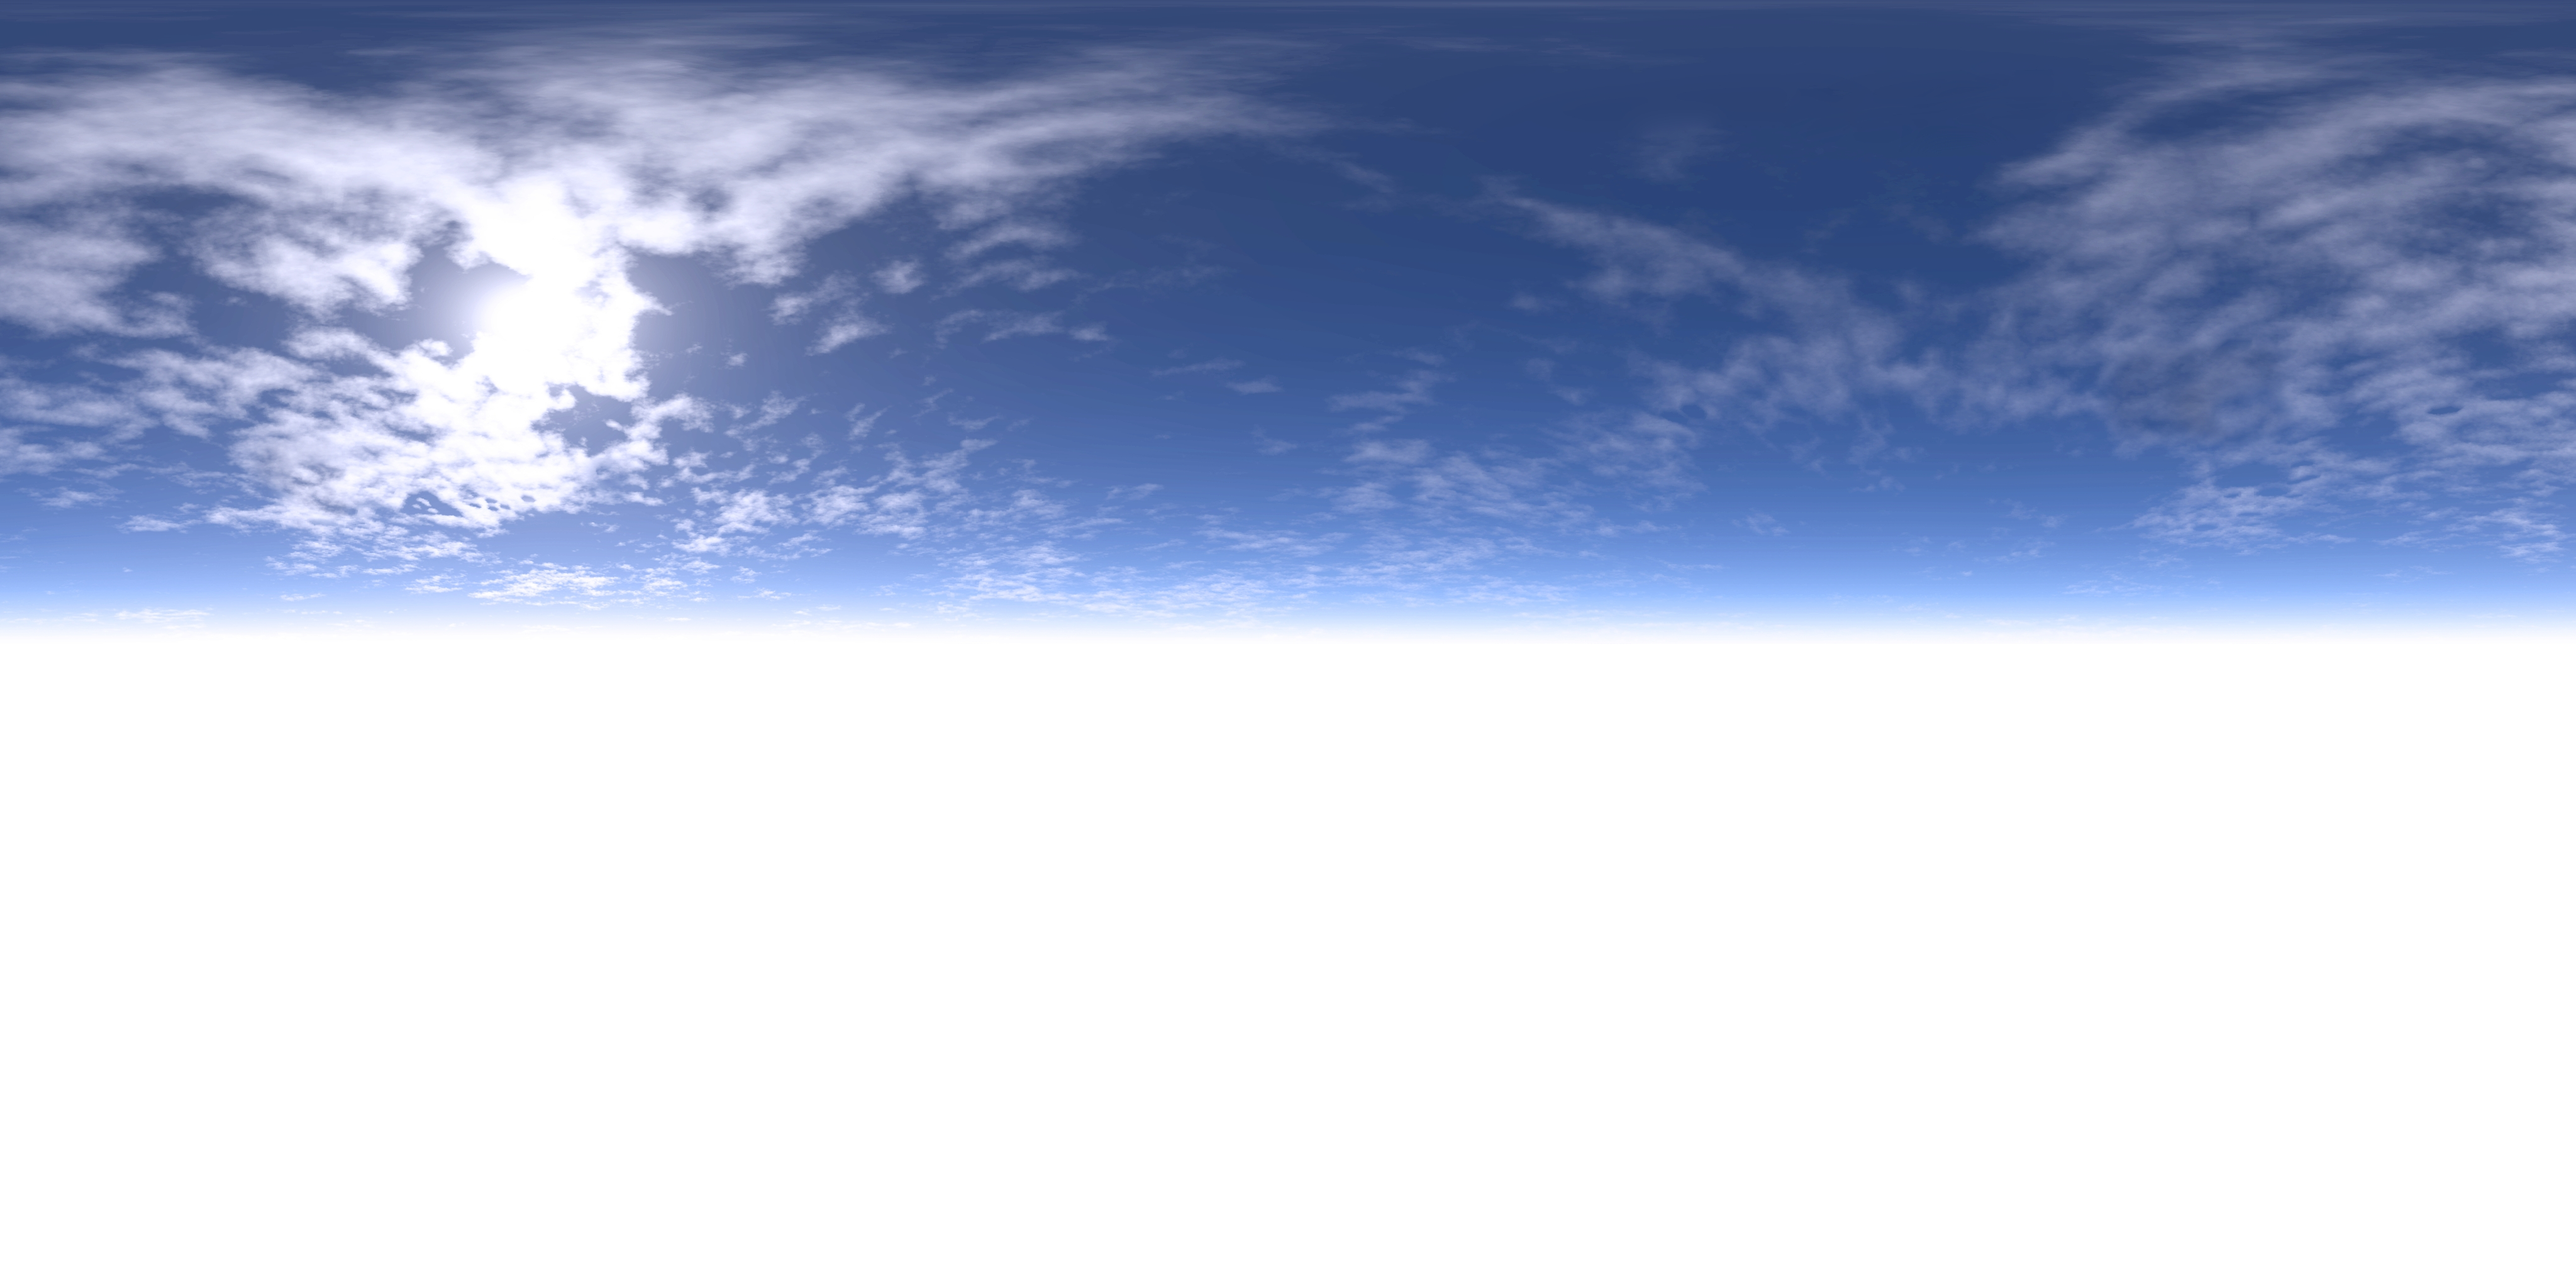
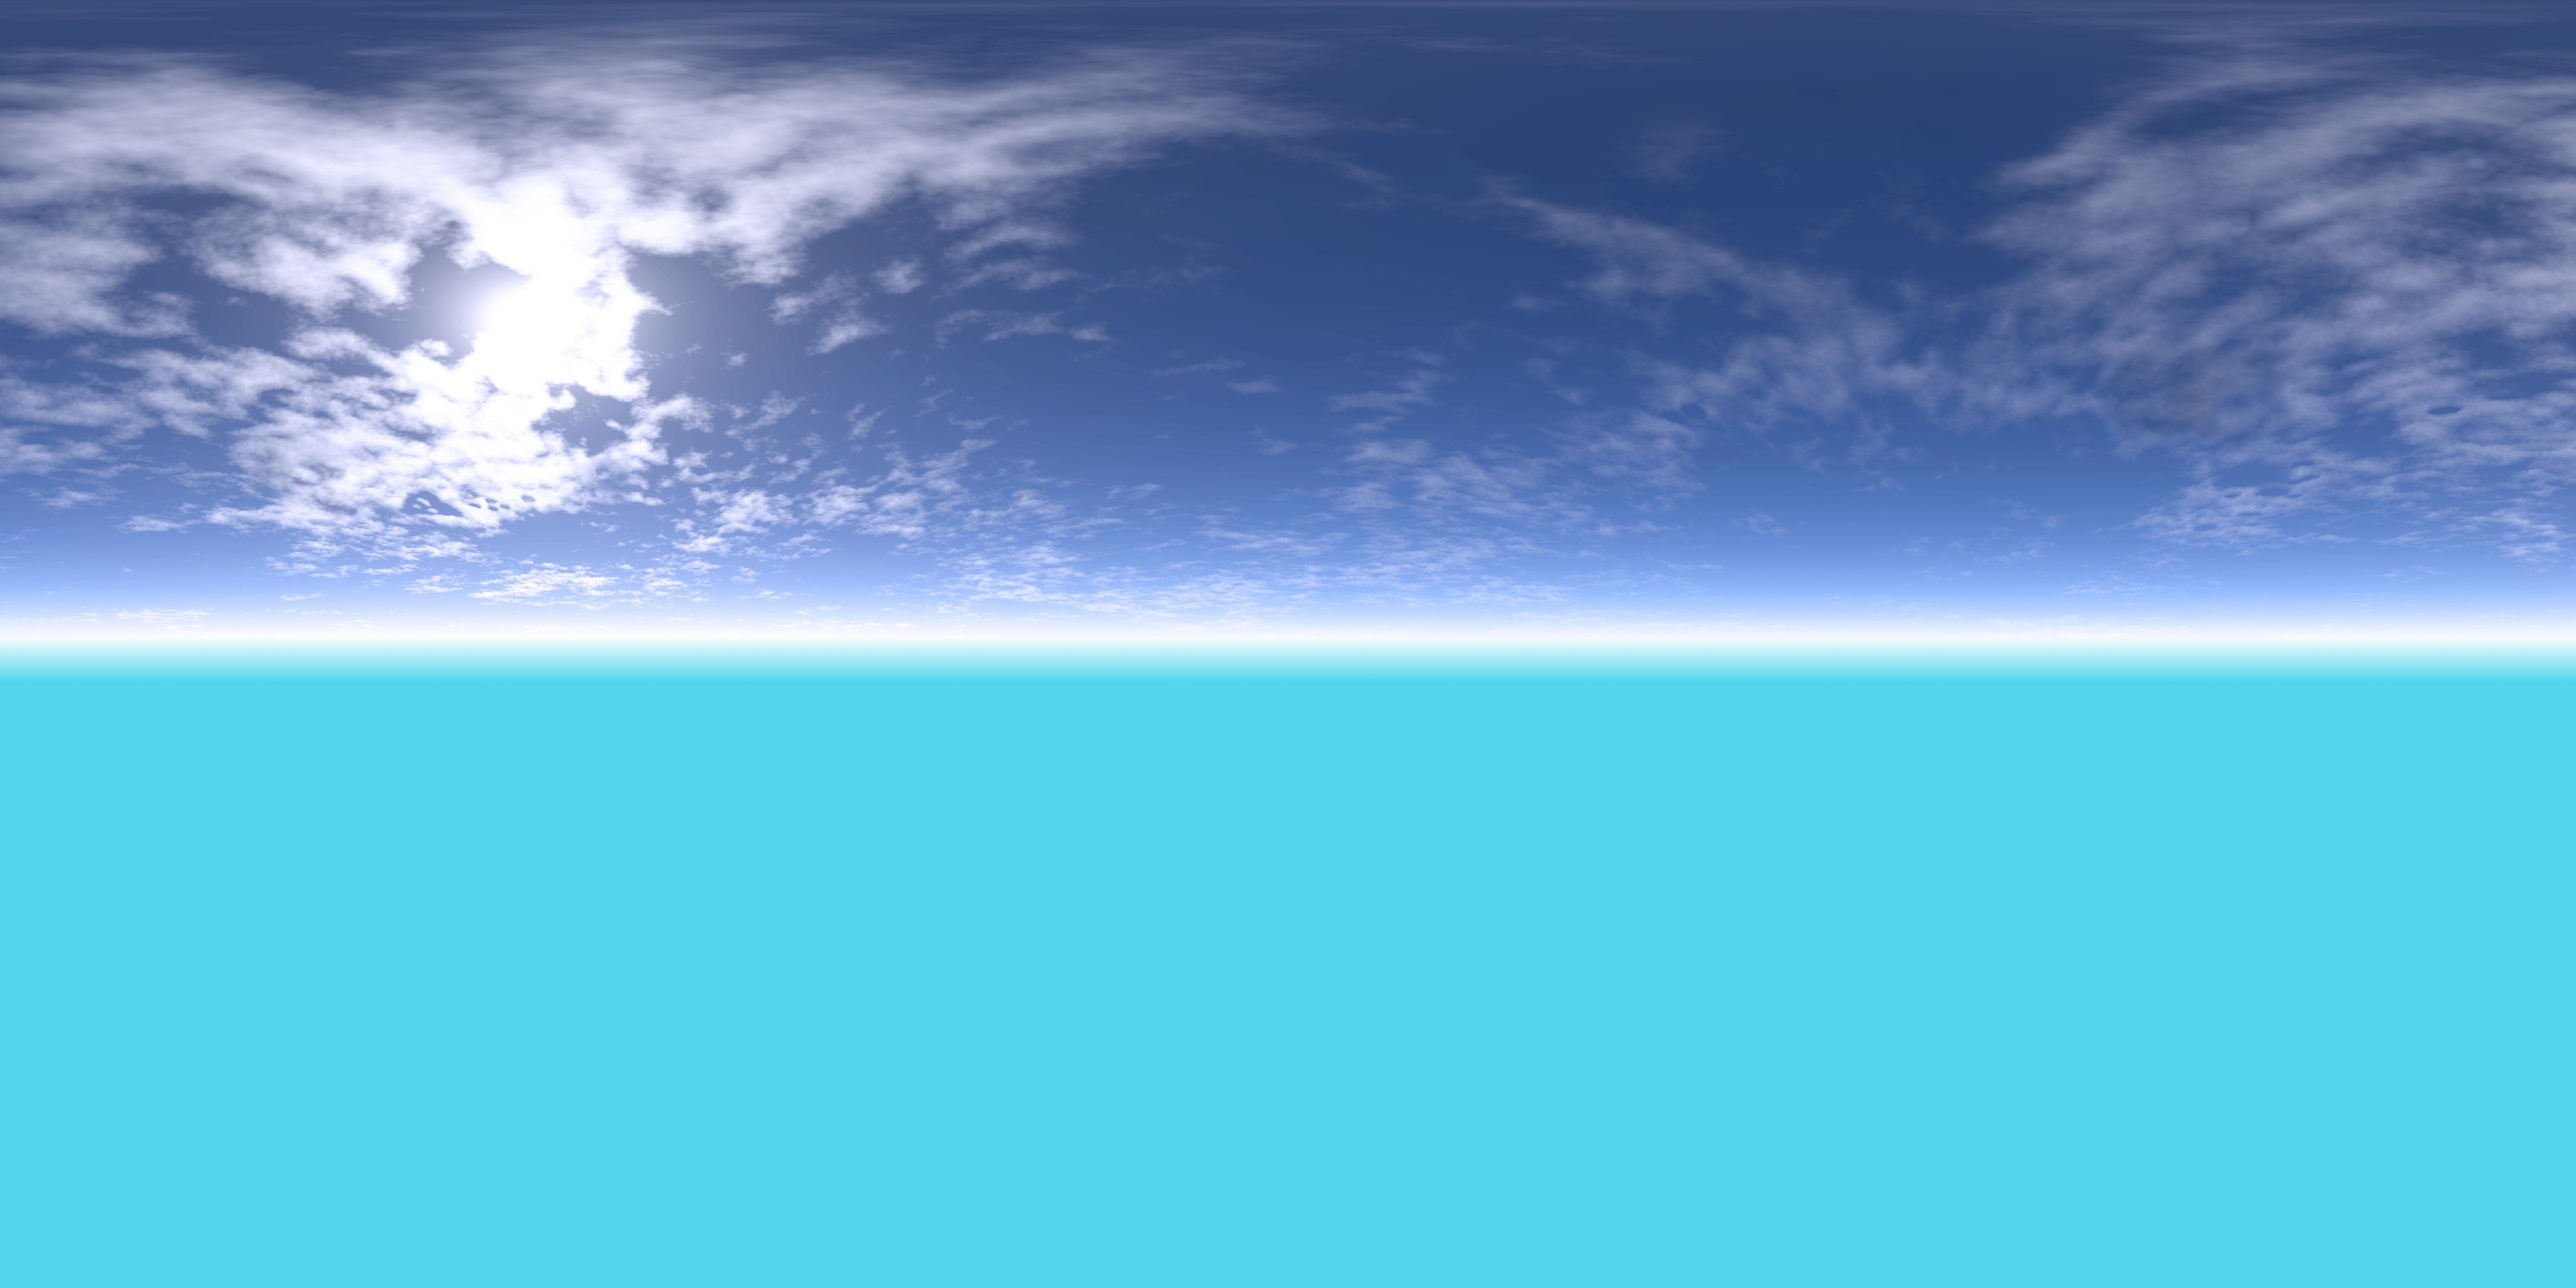
skybox repair, misc changes

diff --git a/src/main.cpp b/src/main.cpp
@@ -821,7 +821,7 @@ public:
     
 		for (i = worldentities.begin(); i != worldentities.end(); i++) {
 			shared_ptr<Entity> entity = i->second;
-			if (entity != worldentities["skybox"]) {
+			if (entity.get() != worldentities["skybox"].get()) {
 				glUniformMatrix4fv(DepthProg->getUniform("M"), 1, GL_FALSE, value_ptr(entity->modelMatrix));
 		
 				entity->model->Draw(DepthProg);
@@ -926,9 +926,15 @@ public:
 			}
 
 			if (shaders["skybox"] == curS) {
-				entity->position = activeCam->cameraPos;
+				glDisable(GL_CULL_FACE);
+				entity->position = player->position;
 				// skybox is always the furthest surface away
 				glDepthFunc(GL_LEQUAL);
+			}
+			else {	
+				glUniform3f(curS->prog->getUniform("lightDir"), light_vec.x, light_vec.y, light_vec.z);
+				glUniform1i(curS->prog->getUniform("shadowDepth"), 1);
+				glUniformMatrix4fv(curS->prog->getUniform("LS"), 1, GL_FALSE, value_ptr(LSpace));
 			}
 
 			if (entity->collider) {
@@ -937,30 +943,25 @@ public:
 						collidables.erase(collidables.begin() + i);
 					}
 				}
-				if (entity->id == player->id) {
-					entity->updateMotion(deltaTime, hmap, collidables, collisionSounds);
-				}
 				if (entity->collider->collectible){
 					entity->updateBoids(deltaTime, hmap, boids, player);
 					// cout << "BOIDED: " << entity->collider->boided << endl;
 				}
 			}
 	
-			glUniform3f(curS->prog->getUniform("lightDir"), light_vec.x, light_vec.y, light_vec.z);
-			glUniform1i(curS->prog->getUniform("shadowDepth"), 1);
-			glUniformMatrix4fv(curS->prog->getUniform("LS"), 1, GL_FALSE, value_ptr(LSpace));
 			glUniformMatrix4fv(curS->prog->getUniform("M"), 1, GL_FALSE, value_ptr(entity->modelMatrix));
 
 			//cout << i->first << endl;
 			for (auto& meshPair : entity->model->meshes) {
 				if (curS == shaders["reg"] || curS == shaders["platform"]) {
 					curS->setMaterial(meshPair.second.mat);
-				}			
+				}
 				meshPair.second.Draw(curS->prog);
 			}
 			
 			if (shaders["skybox"] == curS) {
 				// deactivate skybox backfill
+				glEnable(GL_CULL_FACE);
 				glDepthFunc(GL_LESS);
 			}
 		}
@@ -998,7 +999,7 @@ public:
 
 		// Apply perspective projection.
 		Projection->pushMatrix();
-		Projection->perspective(45.0f, aspect, 0.01f, 1000.0f);
+		Projection->perspective(45.0f, aspect, 0.01f, 350.0f);
 
 		//material shader first
 		shared_ptr<Shader> curS = shaders["edit"];
@@ -1160,6 +1161,7 @@ public:
 		}
 		else{
 			updateAnimation();
+			player->updateMotion(frametime, hmap, collidables, collisionSounds);
 			drawObjects(aspect, LSpace, frametime);
 		}
 
@@ -1214,7 +1216,7 @@ int main(int argc, char *argv[]) {
 	}
 
 	Event *ev = new Event("../resources/french-mood.mp3", &engine, true, "background");
-	//ev->startSound();
+	ev->startSound();
 
 	float dt = 1 / 60.0;
 	auto lastTime = chrono::high_resolution_clock::now();

diff --git a/src/Entity.cpp b/src/Entity.cpp
@@ -138,16 +138,21 @@ void Entity::updateMotion(float deltaTime, shared_ptr<Texture> hmap, vector<shar
     vec3 oldPosition = position;
     vec3 newPosition = position + vec3(deltaX, 0, deltaZ);
 
+    vec3 entityScale = scaleVec * 
+        vec3(2.0 / std::max(std::max(model->max.x - model->min.x,
+            model->max.y - model->min.y),
+            model->max.z - model->min.z));
+
     // get ground samples
     vec4 groundPlane0 = collider->CheckGroundCollision(hmap);
     float groundHeight0 = getHeightFromPlane(groundPlane0, vec2(oldPosition.x, oldPosition.z));
 
-    vec3 newPositionForward = newPosition + vec3((scaleVec.z/2) * sin(rotY), 0, (scaleVec.z/2) * cos(rotY));
+    vec3 newPositionForward = newPosition + vec3((entityScale.z/2) * sin(rotY), 0, (entityScale.z/2) * cos(rotY));
     position = newPositionForward;
     vec4 groundPlane = collider->CheckGroundCollision(hmap);
     float groundHeight = getHeightFromPlane(groundPlane, vec2(newPositionForward.x, newPositionForward.z));
 
-    vec3 newPositionBack = newPosition - vec3((scaleVec.z/2) * sin(rotY), 0, (scaleVec.z/2) * cos(rotY));
+    vec3 newPositionBack = newPosition - vec3((entityScale.z/2) * sin(rotY), 0, (entityScale.z/2) * cos(rotY));
     position = newPositionBack;
     vec4 groundPlaneB = collider->CheckGroundCollision(hmap);
     float groundHeightB = getHeightFromPlane(groundPlaneB, vec2(newPositionBack.x, newPositionBack.z));
